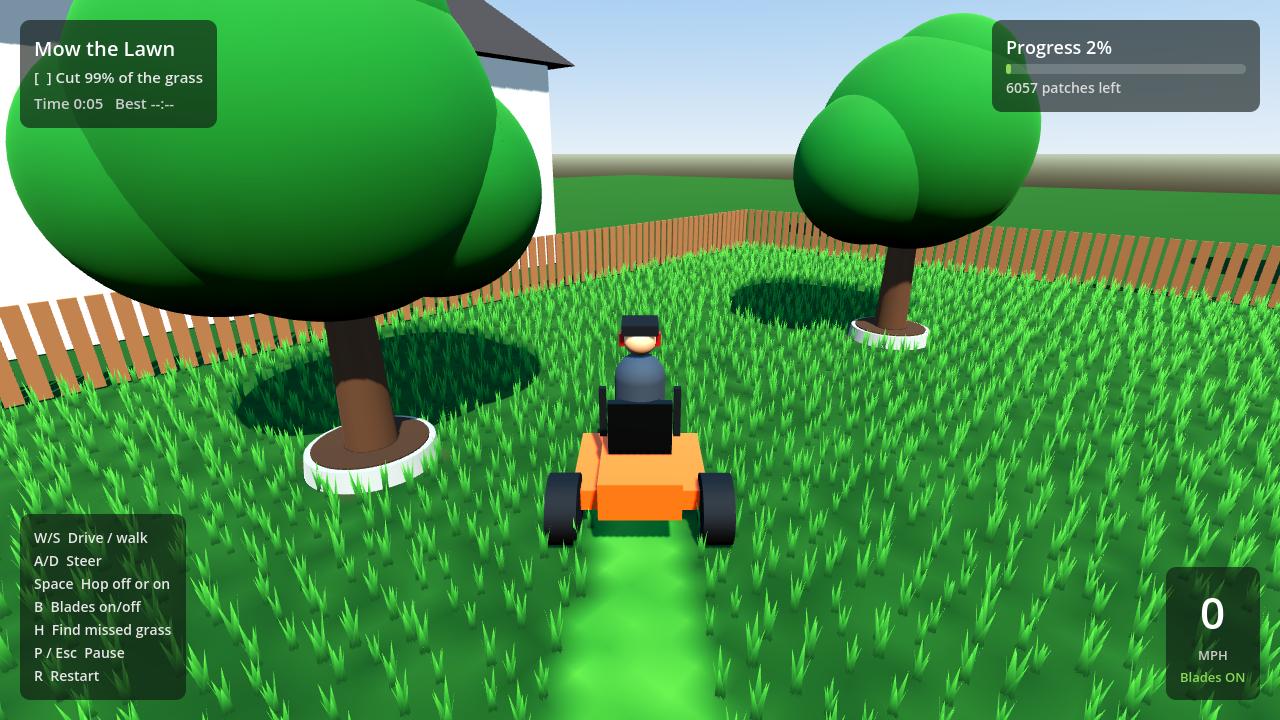
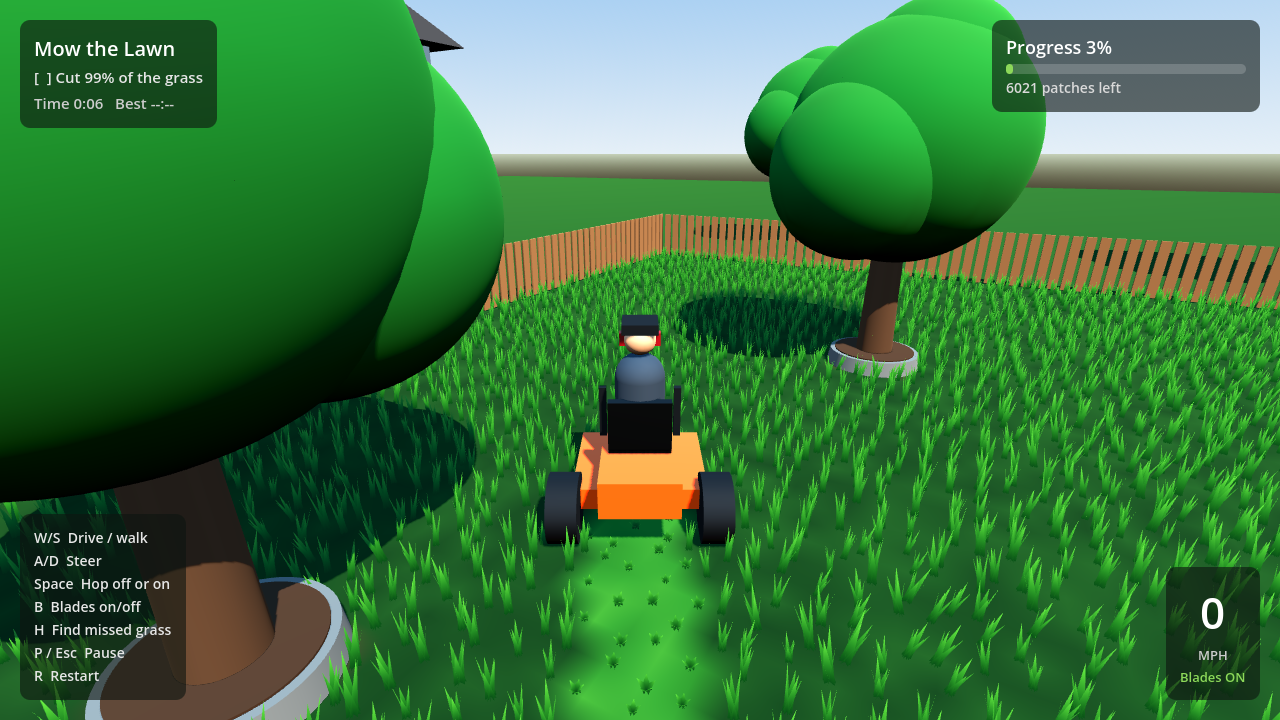
Polish the grass (Phase 2)
- Cut clumps drop to short stubble instead of vanishing
- Grass shader: root-to-tip shading, breeze sway on tall grass only,
  highlight that tints only uncut clumps
- Flying clippings from the mower deck and the weed eater
- Swept-path cutting so fast moves or slow frames leave no gaps
- Softer stripe colours and darker stone rings
- Tests for swept cuts, stubble and clippings; README roadmap updated

Claude-Session: https://claude.ai/code/session_01BNpf16DhLvn72P8e8Wsqpn

diff --git a/README.md b/README.md
@@ -14,7 +14,8 @@ GDScript, and played in the browser.
 - Riding mower with a chase camera, plus walking with a weed eater.
 - The mower's blade is narrower than its body, so the strip along the fence
   and the edges of beds and tree rings need the weed eater.
-- Two stripe shades depending on which way you mow.
+- Two stripe shades depending on which way you mow; cut grass leaves short
+  stubble and throws clippings, and tall grass sways in the breeze.
 - Missed-patch highlight with H, switched on automatically at 95%.
 - Progress, patches left, speed, time and your best time on screen.
 - Pause with P / Esc, and an automatic pause when the game loses focus.
@@ -68,6 +69,7 @@ version and both sums there, and the version noted in `godot/project.godot`.
   for cutting, progress and the stripes.
 - `godot/scripts/lawn_view.gd`: draws the ground stripes and the chunked
   grass clumps, and the missed-patch highlight.
+- `godot/shaders/grass.gdshader`: grass colour, breeze sway and highlight.
 - `godot/scripts/mower.gd`, `godot/scripts/walker.gd`: driving, walking and
   cutting.
 - `godot/scripts/chase_camera.gd`: camera that follows whoever you control.
@@ -87,8 +89,8 @@ The full plan is in the project's improvement plan document.
 | Security and CI hardening | Done |
 | 0. 3D export spike | Done |
 | 1. Graybox gameplay: weed eater, hop off/on, tests ported | Done |
-| 2. Grass system polish | Next |
-| 3. Visual slice: real models, sound, landscaping | Planned |
+| 2. Grass polish: stubble, sway, clippings, gap-free cutting | Done |
+| 3. Visual slice: real models, sound, landscaping | Next |
 | 4. Optimize and QA, quality presets | Planned |
 | 5. Release | Planned |
 
